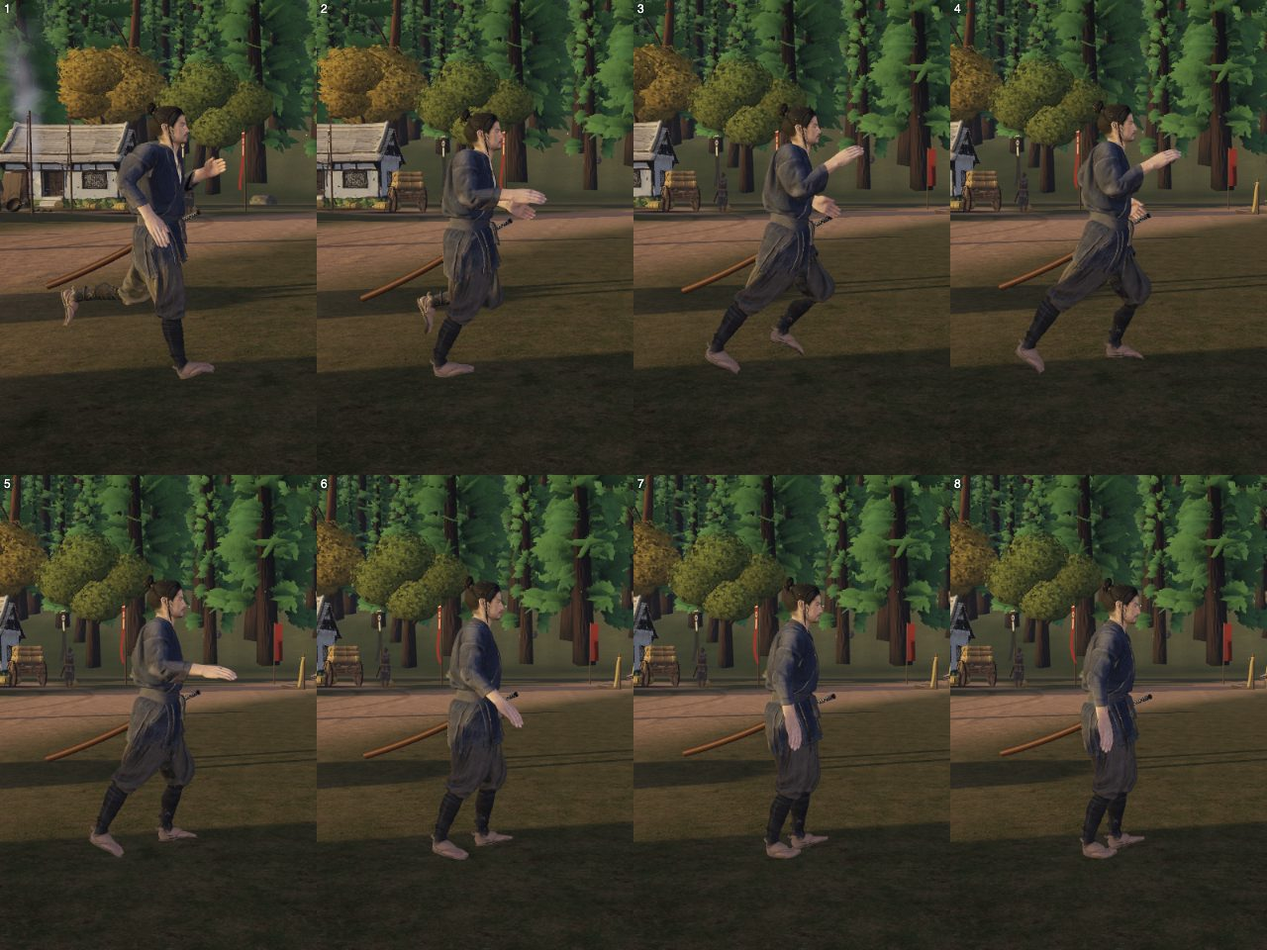
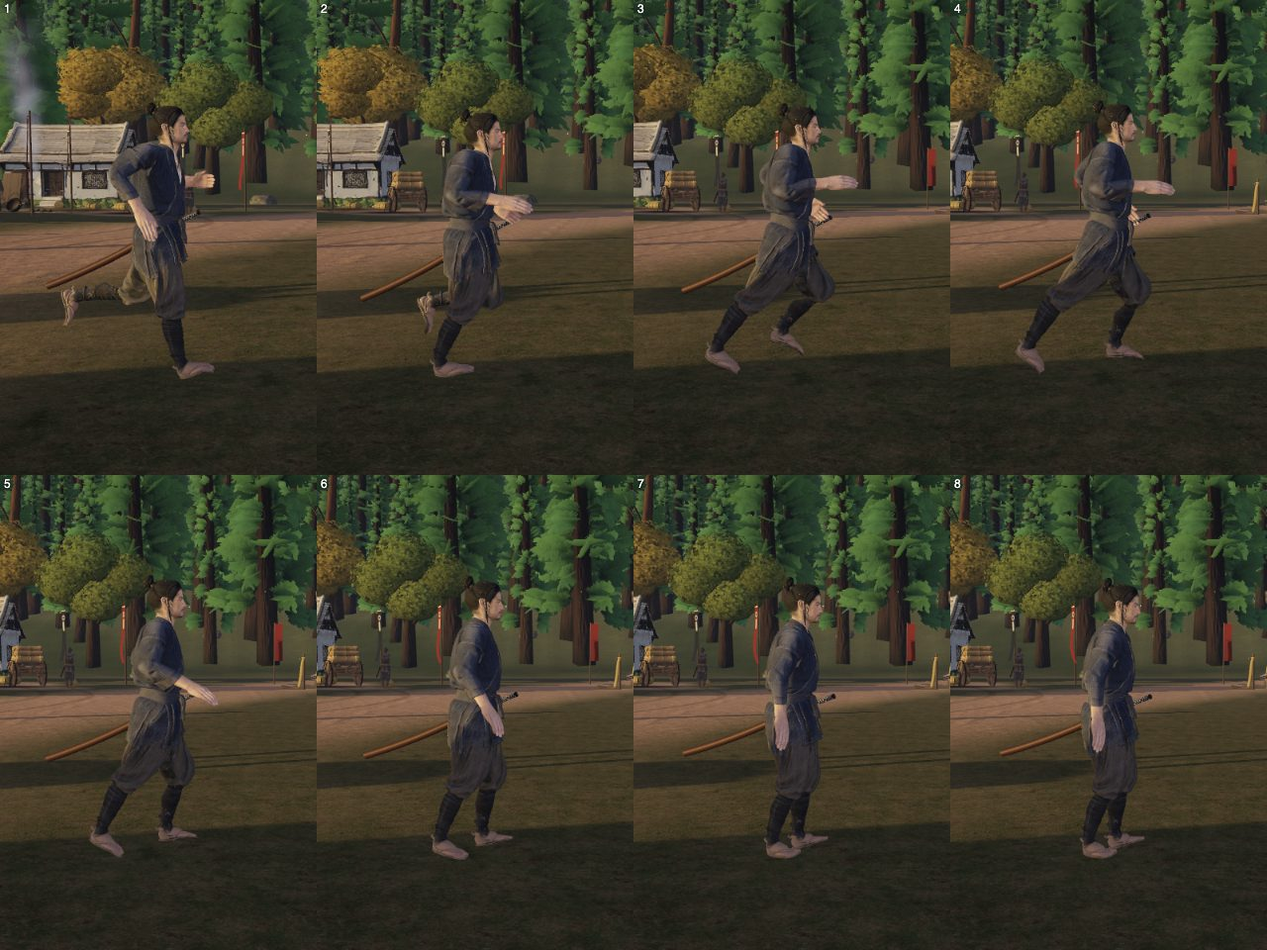
Record the final M3 results: blind-scoring history, corrected arm, new design doc
- design-locomotion-upper.md (new): causes, layer placement, what ships, rejected versions, pitfalls.
  design-locomotion-smooth.md section 13 now points to it (keeps that file at 100 lines).
- reports/polish3/locomotion-smooth/m3.md rewritten with the final numbers: three blind-scoring
  rounds (first arm lost 3-19, second 0-20, final version ties 27 of 27 against M2b), what the
  swing/sync metrics missed, the crouch-entry drift found by comparing raw frames, performance.
- m3 images regenerated from the final default; tasks-locomotion / tasks-polish3 / README updated.

diff --git a/reports/polish3/locomotion-smooth/m3.md b/reports/polish3/locomotion-smooth/m3.md
@@ -1,62 +1,56 @@
-# 走り・歩きの滑らかさ M3：走りの形（腕・体幹・頭・前傾・骨盤の上下）（2026-11-04）
+# 走り・歩きの滑らかさ M3：走りの形（体幹・頭・前傾・曲がり・骨盤の上下・後ろへ引く腕）（2026-11-04）
 
 前＝この枝の `?smooth=arms`（M2b の姿勢。762コマの記録の指紋 69ee9d393ee3399a が M2b の main と一致）。後＝この枝の既定。
-入れたのは、上半身の二次運動の層（`dist/valley/upper-body.js`（式・純粋）・`upper-rig.js`（骨へ当てる））と、物差し `tools/lib/upper-metrics.mjs`。理由と捨てた案は design-locomotion-smooth.md §13。
+入れたのは上半身の二次運動の層（`dist/valley/upper-body.js`（式・純粋）・`upper-rig.js`）と物差し `tools/lib/upper-metrics.mjs`。設計と捨てた案は `design-locomotion-upper.md`。
 
 ## 結論
-- **腕が前に出たまま固まって見える原因は、収録動作の形**だった。走りの動作（CMU_Run）の腕は、反対側の太ももとすでに同期している（相関0.98・位相差0）。ところが上腕は真下より後ろ（平均−25度）でしか振れず、肘を約125度曲げた前腕が胸の前に残る。手の前後の行き来は20〜25cm。ほかの層（腕の力の抜き・刀・握り）は腕を変えていない（最終の姿勢＝mixer の姿勢を確かめた）。手続きの層で直せる範囲で、再収録は要らない。
-- **体幹の硬さは、骨盤が胸と同じ向きに回ること**（相関+0.57。人は逆向き）だった。胸の揺れ自体は脚に合っていた。
-- 層を入れた後、定常の走りで：腕の振り幅45→71度・平均−25→−9度・手の行き来23→31cm、骨盤と胸の相関+0.53→−0.94（逆回転）、頭の左右の揺れ7.6→1.1度・角加速度p99 9707→2532、骨盤の上下8.4→6.0cm、前傾7.1→9.1度。走り出しの前傾の最大8.9→11.9度、曲がりで内側へ0→4度。足の物差し（滑り・窓・地面）は M2b とほぼ同じ（止まりの窓 +0.3cm）。
-- 盲検（腕と体）はまだ。画素の差は「画像」の節。
+- **既定**：体幹の逆回転・頭の安定・前傾・曲がりの傾き・骨盤の上下の縮め・**後ろへ引く側だけ深くした腕**。前へ出る腕は M2b のまま（肘を畳んだ形・手の前への出19cm）。
+- **見た目は旧（M2b）と同等**。盲検（画像だけを見る Opus 採点役3人）で、旧・腕なし・この版の3版が27件すべて同点。悪化はないが、**画像で「良くなった」とも言えない**（8コマ・0.5秒の連続写真では、頭の揺れや体幹の逆回転の差が読めない）。数値の改善は確かに出ている（下の表）。
+- 実装担当の初版（腕を前へも振る）は、振り幅・同期の物差しでは目標を満たしたが、**盲検で旧に負けた**（54件中 新3・旧19）。そのまま出さず、腕を作り直した（下の経過）。
+- 生の記録を main と項目ごとに比べて、**屈み歩きに入る約0.35秒、左腕が最大40度ずれる不具合**を見つけて直した（原因＝手の上限が層の効きに連動しなかった）。回帰に門番を足し、不具合を戻すと失敗することを確かめた。
+- 論理側（位置・向き・歩容・接地・カメラ）は762コマすべて M2b と同じ。戦闘の論理は main と一致（斥候320・侍大将520コマ）。
 
-## 人の走りの目安と、目標の根拠（概数。文献で幅がある値を、目安として丸めて使う。数値やコードは持ち込んでいない）
-- 腕：上腕の前後の振り幅はおよそ60〜90度（速いほど大きい）で、振りの中心は真下よりやや後ろ。肘は約90度に曲げ、前で畳み後ろで少し伸ばす。腕は反対側の脚と同期する。→ 目標：走りで幅60度以上・平均−15〜0度・手の行き来28cm以上・同期の相関0.9以上。
-- 体幹：骨盤と胸は逆向きに回る。→ 骨盤と胸の回りの相関−0.5以下。
-- 頭：視線を保ち、揺れは数度以内。→ 左右4度・上下3.5度以内（収録は7.6・4.6度）。
-- 体の上下：走りでおよそ6〜10cm、速いほど小さめ。収録の腰の上下は8.5cm（本来の速さ3.05m/秒）で、走り5m/秒では歩調1.72倍で回すため、同じ弧が約3倍の重さで跳ぶ（弧の高さは周期の2乗に比例）。→ 走り5〜7cm・通常移動8.5cm以下。
-- 前傾：定速でおよそ5〜15度、加速の始めは大きい。収録は7度。→ 走り8〜13度・走り出しの最大11度以上。
-- 曲がり：体全体は atan(横の加速度/g) だけ内側へ傾くのが釣り合い。台本の旋回は横の加速度が20m/秒²に達する（人には無理な鋭さ）ので、その0.2倍・上限8度を上体で見せる。→ 内側へ2度以上。
+## 盲検採点の経過（腕。new＝M3、old＝M2b。採点役3人×場面。A/B の順は場面ごとにでたらめ）
+| 回 | 比べた版 | 件数 | new が良い | old が良い | 同じ | 総合の差(new−old) |
+|---|---|---:|---:|---:|---:|---:|
+| 1 | 初版（前へも振る）対 M2b・横と追従18場面 | 54 | 3 | 19 | 32 | −0.31 |
+| 2 | 手の上限＋肘を20度伸ばした版 対 M2b・18場面 | 54 | 0 | 20 | 34 | −0.28（横 −0.56） |
+| 3 | 旧・V1（後ろへ引く側だけ）・V3（腕は M2b のまま体幹だけ M3）・横9場面 | 27 | 3版とも27件すべて同点（best＝tie） | | | 0.00 |
+- 1回目：前へ出た手が顔・頭の高さまで上がる／前腕が水平に棒状／曲がりで腕が頭より高く跳ねる、が3人とも繰り返し指摘された。実測も同じ向き（走りで手が首より上に出るコマ7%・前への出 19→26cm）。
+- 2回目：肘を伸ばして手のひらを開いて前へ差し出す形が「棒のよう」。採点役が好んだのは M2b の「肘を畳んで胸の前」で、「後ろへの振りが小さい」とも言った → 3回目は前へ出る腕は触らず、後ろへ引く側だけ増やした。
+- 3回目の「worst」の指摘は旧（M2b）側の1件だけ（頭が後ろへ傾く）。3人とも、旧・V1・V3 に同じ指摘（手のひらを開いて前へ差し出す・止まりが急・歩きが小走り）を付けた。
+- 追従カメラ（プレイヤーが普段見る向き）は人物が小さく、差は読めない（2回目は27件すべて同点）。V1 の採点は差が読める横カメラだけにした。
 
-## 台本1本（`smooth-journey`・`upper-metrics`。前＝`?smooth=arms`）
+## 実装担当の物差しが見逃したこと
+腕の振り幅（45→71度）・反対側の太ももとの同期（相関0.99）・平均（−25→−9度）は、設計した内容そのものを測るので、初版でも目標を満たした（物差しと実装が同じ定義）。見た目の悪さ（手が首の高さまで上がる）は拾えなかった。**手の最高の高さ（首との差）と肩から手の前への出**を物差しに足し（`handPose`・単体試験つき）、回帰の目標を作り直した（手の最高≤首−5cm・前への出≤24cm。M2b は −5.9・19.0、初版は +2.0・26.4）。
 
-| 指標 | 前（M2b） | 後（M3） | 目標 |
+## 台本1本（`smooth-journey`・`upper-metrics`。前＝M2b）
+| 指標 | 前（M2b） | 後 | 目標 |
 |---|---:|---:|---|
-| 走り 腕の振り幅（度）／平均（度） | 45.3／−24.9 | 70.5／−8.6 | 60〜90／−15〜0 |
-| 走り 手の前後の行き来（cm） | 22.9 | 31.1 | 28以上 |
-| 走り 反対側の太ももとの同期（相関・位相差） | 0.98・−0.02周 | 0.99・0周 | 0.9以上 |
+| 走り 腕の振り幅（度）／平均（度） | 45.3／−24.9 | 56.9／−30.3 | 50〜90／−40〜−20 |
+| 走り 手の前後の行き来（cm）／反対側の太ももとの同期 | 22.9／0.98 | 28.8／0.99 | 25〜60／0.9以上 |
+| 走り 手の最高（首との差cm）／前への出（cm） | −5.9／19.0 | −6.7／19.0 | −5以下／22以下 |
 | 走り 骨盤と胸の回りの相関（負＝逆回転）／ねじれの幅（度） | +0.57／17.7 | −0.93／28.6 | −0.5以下 |
-| 走り 頭の左右／上下の揺れ（度）・角加速度p99（度/秒²） | 7.6／4.6・8837 | 1.1／1.8・2539 | 4／3.5以内 |
+| 走り 頭の左右／上下の揺れ（度）・角加速度p99 | 7.6／4.6・8837 | 1.1／1.8・2539 | 4／3.5以内 |
 | 走り 骨盤の上下（cm）／前傾（度） | 8.3／7.2 | 5.9／9.2 | 5〜7／8〜13 |
-| 通常移動 腕の振り幅（度）／骨盤と胸の相関 | 45.4／+0.43 | 62.0／−0.86 | 55以上／−0.5以下 |
+| 通常移動 腕の振り幅（度）／手の最高（cm）／骨盤と胸の相関 | 45.4／−5.9／+0.43 | 53.3／−6.2／−0.86 | 48以上／−5以下／−0.5以下 |
 | 通常移動 頭の左右（度）／骨盤の上下（cm） | 7.6／8.3 | 2.6／7.8 | 4以内／8.5以下 |
-| 走り出しの前傾の最大（度） | 8.9 | 11.9 | 11以上 |
-| 曲がりの内側への傾き（度） | 0.0 | 4.0 | 2以上 |
-| 足の滑り（cm/m）・区間 jog／run／run2 | 1.68・0／0／0 | 1.72・0／0／0 | 1.84・1.30以下 |
-| 窓 歩き出し・反転・旋回／停止（1回目・2回目） | 0・0・0／20.41・18.00 | 0・0・0／20.72・18.22 | 6以内／30以内 |
+| 走り出しの前傾の最大（度）／曲がりの内側への傾き（度） | 8.9／0.0 | 11.9／4.0 | 11以上／2以上 |
+| 屈み歩きの腕（対 `?smooth=arms`）の最大のずれ | — | 0.8度・手0.6cm | 3度・3cm以内 |
+- 同じページの定常の走り3秒（M3）：30・60・144コマ/秒で腕の幅 57.2・56.8・56.5度、骨盤の上下6.0cm・前傾9.1度（どれも同じ）。「動きを減らす」で腕の幅47.5度・ねじれ10.7度（通常の56.8・28.6より小さい）。
+- 二重加算なし：補正を戻した骨と mixer 直後の姿勢の差 2.2e-16。技（左クリック）を出すと、効きは0.13秒で1.00→0.024へ戻る。
 
-物差しは、わざと壊した合成の記録で確かめた（`tests/upper-metrics.test.mjs`）：動かない腕は振り幅0・相関0（M0 の物差しは硬さを0として見逃していた）、同じ側の脚と同期する腕は相関が負、骨盤と胸が一枚の板なら相関+1。
-
-## 同じページの定常の走り3秒（`regress-locomotion-upper`。どの通りも1回空で流してから測る）
-
-| | 腕の幅／平均（度） | 手の行き来（cm） | 同期 | 骨盤と胸の相関／ねじれ（度） | 頭の左右（度）・角加速度p99 | 骨盤の上下（cm） | 前傾（度） |
-|---|---|---:|---:|---|---|---:|---:|
-| M2b（`?smooth=arms`） | 45.3／−25.4 | 22.9 | 0.98 | +0.53／17.7 | 7.6・9707 | 8.4 | 7.1 |
-| M3（60コマ/秒） | 70.6／−9.0 | 31.1 | 0.99 | −0.94／28.6 | 1.1・2532 | 6.0 | 9.1 |
-| M3（30コマ/秒） | 71.1／−9.0 | 31.6 | 0.99 | −0.94／29.0 | 1.3・1563 | 6.0 | 9.1 |
-| M3（144コマ/秒） | 70.1／−8.9 | 30.7 | 0.99 | −0.94／28.5 | 1.0・4907 | 6.0 | 9.1 |
-| M3「動きを減らす」 | 52.9／−19.9 | 23.0 | 0.99 | −0.66／10.7 | 2.5・2566 | 4.8 | 7.8 |
-
-- コマ速度で値は極端に変わらない（腕の幅の差1%以内、骨盤の上下・前傾は同じ）。頭の角加速度は差分の取り方でコマ速度に左右される指標なので、コマ速度どうしは比べない。
-- 二重加算なし：補正を戻した骨と、同じコマの mixer の直後の姿勢の差は 2.2e-16（層を当てたコマの姿勢の変化は 0.024）。技（左クリック）を出すと、効きは0.13秒で1.00→0.024へ戻る。
-
-## 戦闘・切替・性能
-- `regress-attack-timing`：斥候320コマ・侍大将520コマとも main（05ef4eb の写し）と一致（combat.js は変えていない）。
-- 位置の列：`?smooth=arms` の記録の指紋 69ee9d393ee3399a が M2b の main の既定と一致。既定は c2736e4253be465b。
-- 回帰の全本34本合格（`regress-locomotion-upper` を足した）。最後の直し（止まりの腕）の後に、上半身・脚・歩き・抜納刀・握り・突進・軌跡の9本を流し直して合格。
-- 性能（`measure-perf`・main の写しと交互・p95 ms）：移動・標準 main 16.2／15.9／15.9 → M3 16.4／16.0／15.9（中央値15.9→16.0）、戦い・標準 14.7／14.5／14.6 → 14.7／14.7／14.6（14.6→14.7）、移動・軽量 13.8→14.0、戦い・軽量 12.8→12.8。描画呼出（475・441・451・407）と三角形は同じ。この測定は、止まりの腕の直し（毎コマの角の計算が2回増える。新規確保なし）の前の版。毎コマの新規確保は無い（入れ物は作っておき、関数・配列を毎コマ作らない）。
+## 戦闘・切替・性能・回帰
+- `regress-attack-timing`：斥候320・侍大将520コマとも main の写しと一致（`combat.js` は変えていない）。
+- `?smooth=arms` の記録の指紋 69ee9d393ee3399a が M2b の main と一致。敵（兵・侍大将）は構えで左手が武器を握る間は層が自動で切れる（実測：兵は効き≒0、侍大将は走り出しの一瞬だけ0.8まで入り、握りに合わせて1秒以内に消える）ので、主な効き先は主人公と味方。
+- 単体887件・`npm run check`・`npm run smoke` 合格。ブラウザ回帰34本合格（`regress-locomotion-upper` に、屈み歩きの門番を足した）。
+- 性能（`measure-perf`・main と交互に3回・p95 の中央値、ms）：移動・標準 15.8→15.7、戦い・標準 14.5→14.4。描画呼出（475・441）と三角形は同じ。差は測定のぶれの内（初版で測った +0.2ms も同程度）。最終コードで測り直した。
 
 ## 画像（`m3/`・8コマ・幅1280。`m2b-`＝`?smooth=arms`、`m3-`＝既定）
-- `run_steady-side`（4コマごと）：真横の定常の走り。M3 は奥の腕が前へ肘を畳んで振れ、手前の腕が腰まで引かれる。M2b は両手が胸の前に残る。
-- `run_stop-side`（4コマごと）：止まりの腕は M2b に近い（直しの後）。
-- `run_steady-follow8`・`walk_steady-follow8`（8コマごと＝約0.13秒）：後ろからの追従。人物が小さく、腕の差は小さい。腰と胸のねじれ（鞘の向きが変わる）が見える。
-- 画素の差（同じコマどうし・輝度24以上違う画素の割合。1枚の切り抜きは人物より広い）：真横の各場面の最大は 走り出し3.6・定常の走り3.4・走りの止まり3.4・走り→歩き3.4・曲がり2.9・通常移動の定常3.2・歩いて止まる2.7%（M2b と M2a の差は最大2.5%・ほとんど1%以下だった）。後ろからは最大0.4〜1.3%（人物が小さい。曲がりが1.3%で最大）。
+- `run_steady-side`・`run_stop-side`（4コマごと）：真横。M3 は後ろへ引く腕が少し深く、頭が水平に保たれ、上体が少し前へ傾く。差は小さい（画素の差は最大3.7%）。
+- `run_steady-follow8`・`walk_steady-follow8`（8コマごと＝約0.13秒）：後ろからの追従。人物が小さく、腕の差はほぼ読めない。
+
+## 残る課題・本人に遊んで見てほしい点
+- **ロボットのような硬さが取れたか**は、遊んで確かめてほしい（画像では示せなかった）。`?smooth=arms` と見比べられる。
+- 全版に共通して、盲検で繰り返し指摘された点（M3 以前から）：止まるとき走りの姿勢から2〜3コマで直立へ切り替わる／歩き（3.1m/秒）が両足の浮く小走りに見える／前側の手が手のひらを開いたまま胸の前に出る。
+- 後ろへ引く腕の深さ（−62度）が大きすぎないか。止まった直後の息づかい（R36.3）は入れていない。

diff --git a/.kiro/specs/hidden-valley-slice/design-locomotion-upper.md b/.kiro/specs/hidden-valley-slice/design-locomotion-upper.md
@@ -1,0 +1,34 @@
+# 走り・歩きの滑らかさ M3「走りの形」の設計（2026-11-04）
+
+`design-locomotion-smooth.md` §6 の続き。実装 `dist/valley/upper-body.js`（式・純粋）・`upper-rig.js`（骨へ当てる）、物差し `tools/lib/upper-metrics.mjs`。
+結果と数値は `reports/polish3/locomotion-smooth/m3.md`。要件 R36（走りの形）・R38（盲検）・R39。
+
+## 1. 原因（調べて分かったこと）
+- 腕：走り（CMU_Run）の腕は反対側の太ももと既に同期している（相関0.98・位相差0）。それでも上腕は真下より後ろ（−48〜+2度・平均−25度）でしか振れず、肘を深く畳んだ前腕が胸の前に残る（手の前後の行き来20〜25cm）。relaxArms・刀・握りの層は腕を変えていない（最終の姿勢＝mixer の姿勢）。
+- 体幹・頭・腰：骨盤が胸と同じ向きに回る（相関+0.57。人は逆向き）。頭は左右7.6度・上下4.6度揺れる。腰の上下8.3cmは、走り5m/秒で歩調を1.72倍にして回すので、同じ弧が約3倍の重さで跳ぶ（弧の高さは周期の2乗に比例）。
+- どれも手続きの層で直せる範囲なので、再収録はしない。
+
+## 2. 層の置き方
+- 順：mixer → この層 → 脚のIK → 刀 → 握り。骨盤の上下は脚のIKの中で腰だけを動かす（足の目標は動作の足首の高さのまま決めるので、足は浮かない）。
+- 効くのは脚のIKを使う人（主人公と24m以内の近い8人。軽量は主人公だけ）の、移動の動作の間だけ。技・回避・受け・抜納刀・両手持ち・屈み歩きでは効きを0へ戻す（25/秒）。刀・弓を持つ腕は0.35倍。敵は構えで左手が武器を握る間は自動で切れる（実測：兵は効き≒0、侍大将は走り出しの一瞬だけ0.8まで入り1秒以内に消える）ので、主な効き先は主人公と味方。
+- 前のコマの補正は undo で戻してから重ねる（二重加算の禁止。回帰で、戻した骨と mixer 直後の姿勢の差 2e-16）。毎コマの新規確保をしない。ばねは厳密に解くので、30・60・144コマ/秒で同じ曲線。
+- 切替：`?smooth=arms` で M2b。脚のIKの更新の分け方に乗るので `?smooth=ik` でも戻る。「動きを減らす」は振り幅を0.35倍（骨盤の下限は0.8倍）。
+
+## 3. 中身
+- 体幹の逆回転：胸を脚の位相から決めた目標（−0.2×（右の太もも−左）/2 度）へ、骨盤を＋0.18×（右−左）/2 度へ寄せる（揺れの成分だけ）。腰を回すときは太もも・背骨を逆に回し、腰の形だけを動かす。
+- 頭：進む向きから見た頭の向きを、4/秒でならした向きへ0.8寄せる（揺れを打ち消す）。前傾：速さ（3m/秒を超えた分×1.3度）と加速度（10度×tanh(a/10)）をばねで遅らせる。曲がり：atan(横の加速度/g)×0.2（上限8度）を上体だけで見せる。骨盤の上下：弧を clip/ts² へ縮め、下限6cm。
+- 腕（後ろへ引く側だけ）：反対側の太ももが後ろにあるときだけ、gain（0.2→0.3、速さ2→5m/秒）×太ももの角度を、減衰の弱いばね（ζ0.35）で後ろへ足す（`backOnly`）。前へ出る腕と肘は収録のまま。上腕は −48〜+2 → −62〜0度、手の前への出（19cm）と肘の曲がり（77〜125度）は M2b と同じ。
+- 手の安全装置（`handBack`・`UPPER.hand`）：肩から見た手が、首の関節−5cmより高く・前へ27cmより出たら、腕を肩の軸まわりに後ろへ戻す（log-sum-exp でなめらかに）。通常の走り・歩きでは効かず（M2b の最高は首−5.9cm・前へ19cm）、はみ出したときだけ抑える。
+- 止まりの腕：効きを速さ（1.5m/秒で満）と減速（−20m/秒²で0）でも弱め、ばねの減衰を強く（ζ0.9）、上腕の前への傾きを動作の角込みで24度まで。待ちの姿へ混ぜる間に、動作の腕が前へ上がって水平に突き出たため（撮影で確認）。
+
+## 4. 決め方と捨てた案（盲検＝画像だけの Opus 採点役3人、場面ごとの A/B は伏せて入れ替える）
+- 初版（腕を前へも振る：offset 10→17度・gain 0.16→0.30・肘を12度伸ばす）は、振り幅・同期の物差しでは目標を満たした（45→71度・相関0.99）が、盲検で54件中 新3・旧19（総合−0.31点）。前へ出た手が首・顔の高さまで上がる／前腕が立つ／曲がりで腕が頭より高く跳ねる、が3人とも繰り返し指摘された。
+- 手の高さに上限を付けて肘を20度伸ばした修正版は54件中 新0・旧20。手のひらを開いて前へ差し出す形が「棒のよう」で、採点役が好んだのは M2b の「肘を畳んで胸の前」。同時に「後ろへの振りが小さい」とも指摘された。
+- そこで前へ出る腕は M2b のまま、後ろへ引く側だけ増やした（V1）。V1・「腕は M2b のまま体幹だけ M3」（V3）・旧の3版を横カメラ9場面×3人で採点：27件すべて同点（見分けがつかない）。悪化はなく、良くなった証拠は画像では示せない。
+- そのほか捨てた案：胸を「骨盤の回り×−0.45」へ寄せる（動作の骨盤の回りが±4度と小さく偏り、胸がほぼ止まった）。骨盤の上下を層の中で腰を動かして作る（足が一緒に浮いた）。
+
+## 5. 落とし穴
+- **振り幅と同期の物差しは、設計どおりに動いた証拠にしかならない**（物差しと実装が同じ定義）。初版は手が顔の高さまで上がっても目標を満たした。見た目は盲検で決め、手の高さ・前への出の物差し（`handPose`）を足した。
+- 撮影の上書き（腕のパラメーター）を、ページの準備の前に当てると、準備の再読み込みで消えて全版が同じ絵になる（V1・V3・修正版が画素で同一だった）。準備の後に当て、新旧の画素差が0でないことで効きを確かめる。
+- 同じページで台本の直後に測ると、1回目は前の状態を引きずる（頭の揺れが2.6度と1.1度に分かれた）。回帰はどの通りも1回空で流してから測る。mixer.update(0) を当て直して「元の姿勢」を作る比べ方は使えない（移動の切り替えが mixer の後に重みと時刻を替える）。
+- 追従カメラ（プレイヤーが普段見る向き）は人物が小さく、腕の差はほとんど見えない。初版の手の跳ね上がりだけは見えた（27件中、旧が良い6件）が、修正版は27件すべて同点だった。V1 の採点は、差が読める横カメラだけにした。

diff --git a/.kiro/specs/hidden-valley-slice/design-locomotion-smooth.md b/.kiro/specs/hidden-valley-slice/design-locomotion-smooth.md
@@ -96,12 +96,5 @@
 - **盲検・撮影の落とし穴**：撮影は各場面の前に主人公を瞬間移動させ、足がその瞬間の姿のまま留まる。立ち時間が短いと走り出しの1コマ目から足を開いて撮れて、IK の版だけ走り出しが悪く見えた（採点役が読み違えた）。`capture-smooth` の立ち時間を150コマ（`KZ_PRE`）にした。平地の連続写真は M2a と画素でほぼ同じ（差は走り出し真横の2〜3コマ目で最大2.5%・歩いて止まる真横で1%・ほかは0.7%以下）＝効き目は坂・段差と動き出しにある。8コマの写真は足の差を読み違えやすい（採点は±1点ぶれた）ので、数値の物差し・画素の差・写真の3つで示す。
 - 落とし穴：Character を作らずにクラスだけ評価する単体試験がある（tests/valley-step-wiring）。`this.legs` は無いことがある前提で書く。
 
-## 13. M3 で決めたこと（2026-11-04・実装 `dist/valley/upper-body.js`（純粋）・`upper-rig.js`・物差し `tools/lib/upper-metrics.mjs`）
-
-- **原因は収録動作の形**（層ではない）：走り（CMU_Run）の腕は反対側の太ももと既に同期している（相関0.98・位相差0）が、上腕は真下より後ろ（平均−25度）でしか振れず、肘を約125度曲げた前腕が胸の前に残る（手の前後の行き来20〜25cm）。relaxArms・刀・握りの層は腕を変えていない（最終の姿勢＝mixer の姿勢）。体幹の硬さは「骨盤が胸と同じ向きに回る」（相関+0.57）。どれも手続きで直せる範囲なので、再収録はしない。
-- **やり方**：上腕を体の横の軸まわりに前へ（オフセット10→17度＋反対側の太ももの角度×0.16→0.30、速さ2→5m/秒で増やす）を減衰の弱いばね（ζ0.35・歩調の2.2倍の角振動数＝周期の約6%遅れる）で。前腕は一定に伸ばす（12度）＋平均より前へ振れた分の0.45倍だけ畳む（一定に24度伸ばすと、前へ振った腕が棒のように突き出た）。骨盤は脚の位相から＋0.18×（右−左）/2、胸は−0.2×（右−左）/2 へ寄せる（揺れの成分だけ）。頭は進む向きから見た向きを4/秒でならした向きへ0.8寄せる。前傾は速さ（3m/秒を超えた分×1.3度）と加速度（10度×tanh(a/10)）をばねで遅らせる。曲がりは atan(横の加速度/g)×0.2（上限8度）を上体だけ。骨盤の上下は clip/ts² へ縮め（歩調 ts 倍で回すと同じ弧は ts² 倍の重さで跳ぶ）、下限6cm。
-- **止まりの腕**（撮影で直した）：真横の走りの止まりで、待ちの姿へ混ぜる間に奥の腕が前へ水平に伸びた（動作の腕が前へ45度ほど上がる所に補正が乗った）。腕の効きを速さ（1.5m/秒で満）と減速（−20m/秒²で0）でも弱め、目標が0へ向かう間は減衰を強く（ζ0.9）、上腕の前への傾きを動作の角込みで35度まで、腕が前にある間は肘の曲がりを70度以上に保つ。
-- **順と範囲**：mixer → この層 → 脚のIK → 刀 → 握り。骨盤の上下は脚のIKの中で腰だけを動かす（足の目標は動作の足首の高さのまま決めるので浮かない）。腰を回すときは太もも・背骨を逆に回し、腰の形だけを回す。効くのは脚のIKを使う人（主人公＋近くの8人）の移動の動作の間だけ。技・回避・受け・抜納刀・両手持ち・屈み歩きでは効きを0へ（25/秒）。刀・弓を持つ腕は0.35倍。前のコマの補正は undo で戻す（回帰で、戻した骨と mixer の直後の姿勢の差 2e-16）。
-- **切替**：`?smooth=arms` で M2b（記録の指紋 69ee9d393ee3399a が main と一致）。脚のIKの更新の分け方に乗るので、`?smooth=ik` でも戻る。「動きを減らす」は振り幅を0.35倍（骨盤の下限は0.8倍）。
-- 捨てた案：胸を「骨盤の回り×−0.45」へ寄せる（動作の骨盤の回りが±4度と小さく偏り、胸がほぼ止まった）。前腕を一定に24度伸ばす（上）。骨盤の上下を層の中で腰を動かして作る（脚のIKが動作の足首の高さを目標にするので、足が一緒に浮いた）。
-- 落とし穴：同じページで台本の直後に測ると、1回目は前の状態を引きずる（屈みの姿勢が残る・頭の揺れが2.6度と1.1度に分かれた）。回帰ではどの通りも1回空で流してから測る。mixer.update(0) を当て直して「元の姿勢」を作る比べ方は使えない（移動の切り替えが mixer の後に重みと時刻を替え、層が無くても0.8度ずれる）。mixer の混ぜた四元数は長さが1から3e-5ずれるので、向きの差は正規化した内積で比べる。
+## 13. M3（走りの形）は `design-locomotion-upper.md` に分けた
+体幹の逆回転・頭の安定・前傾・曲がりの傾き・骨盤の上下の縮め・後ろへ引く腕（前へ出る腕は M2b のまま。腕を前へも振る初版は盲検で負けた）。原因・層の置き方・捨てた案・盲検の経過はそちら、結果は `reports/polish3/locomotion-smooth/m3.md`。

diff --git a/tools/README-valley-qa.md b/tools/README-valley-qa.md
@@ -63,7 +63,7 @@ b0 庭へ降りる（`temple_yard` に入る）→ b1 穂太の話 → b2 林道
 - `tools/scenarios/regress-locomotion-speed.mjs`：速さの表と時間で決める加減速（M1・`dist/valley/loco.js`）。止まる距離と時間が30・60・144Hzで一致・旧い経路は1コマで止まる・走り出し／止まり／反転で速さが1コマ1m/秒を超えて跳ばない・候補の表（old・a・b・c・個別の walk/sprint・`?smooth=speed|off`）の定速と仲間・敵の値。止まりの位相を12通りずらした接地のずれも記録する（合否なし）。URL の切替は `valley-play.mjs --query "loco=old&smooth=off"` で渡せる。smooth-journey の接地は M1 から gait-table v2 の「足裏が平ら」の区間（旧い物差しは `slipLegacy`）。
 - `tools/scenarios/regress-locomotion-phase.mjs`：足の位相と歩調（M2a・`dist/valley/gait-phase.js`）。歩容の切り替え（小走り2.0・2.5で Shift）・歩き出し・止まり（走り・通常移動）の窓0.5秒の接地のずれを、位相をずらした掃引で、既定と `?smooth=phase`（M1 の経路）を同じページで比べる。通りごとに動作の時計 `mixer.time` を0へ戻す（戻さないと同じ通りが15cmと30cmに分かれた）。
 - `tools/scenarios/regress-locomotion-ik.mjs`：脚のIKと接地（M2b・`dist/valley/leg-ik.js`・`leg-plant.js`）。台本1本の定速の滑り（小走り1.84・走り1.30cm/m以下）と窓（歩き出し・反転・旋回）の接地のずれ6cm以内、掃引（歩き出し・切り替え・反転は6cm以内。止まりの既定は M2a より悪くならない。`?stop=hold` の止まりは6cm以内で、30・60・144Hz）、坂・段差（石段の下の林道・土手・川岸・棚田の段）で着いた足の浮き・沈み3cm以内と、歩いて止まった後の足首の高さ。`?smooth=ik`（M2a）と同じページで比べる。既定では、歩幅の伸縮（`?stride=on`）と、止まった後に足を留める版（`?stop=hold`）は入らない。
-- `tools/scenarios/regress-locomotion-upper.mjs`：走りの形（M3・`dist/valley/upper-body.js`・`upper-rig.js`、物差し `tools/lib/upper-metrics.mjs`）。台本1本の腕振りの幅・平均・手の行き来・反対側の太ももとの同期、骨盤と胸の逆回転、頭の揺れ、骨盤の上下、前傾、曲がりの傾きの目標と、足の物差し（regress-locomotion-ik と同じ）。同じページで `?smooth=arms`（M2b）と定速の走り3秒を比べ、30・60・144Hz、「動きを減らす」、補正を戻した骨＝mixer の直後の姿勢（差1e-9以下）、技で効きが戻ることを確かめる。どの通りも1回空で流してから測る（台本の直後の1回目は前の状態を引きずった）。
+- `tools/scenarios/regress-locomotion-upper.mjs`：走りの形（M3・`dist/valley/upper-body.js`・`upper-rig.js`、物差し `tools/lib/upper-metrics.mjs`）。台本1本の腕振りの幅・平均・手の行き来・反対側の太ももとの同期、骨盤と胸の逆回転、頭の揺れ、骨盤の上下、前傾、曲がりの傾きの目標と、足の物差し（regress-locomotion-ik と同じ）。同じページで `?smooth=arms`（M2b）と定速の走り3秒を比べ、30・60・144Hz、「動きを減らす」、補正を戻した骨＝mixer の直後の姿勢（差1e-9以下）、技で効きが戻ることを確かめる。どの通りも1回空で流してから測る（台本の直後の1回目は前の状態を引きずった）。手の最高の高さ（首との差）・前への出の安全装置を台本の全区間で確かめ、同じ台本を `?smooth=arms` でも流して屈み歩きの腕が層あり・なしで同じことを確かめる（手の上限が層の効きに連動しないと、屈み歩きに入る間に左腕が40度ずれる）。
 - `tools/scenarios/capture-ledge.mjs`：棚田の段（0.55m）を下る・登る場面を、段差を越える瞬間を中心に8コマのコマ割りにする（`--tag`・`--query`・`KZ_ONLY`）。平地は IK の有無で画素がほぼ変わらず、効き目は坂と段差に出る。
 - `tools/scenarios/capture-smooth.mjs`：同じ台本の走り出し・定速・停止・旋回を、固定の横カメラと追従カメラで8コマのコマ割り（幅1280のJPG）にする（`--tag` で出力名を替え、新旧を同じ条件で撮る。盲検採点用）。場面の前に主人公を瞬間移動させるので、`KZ_PRE`（既定150コマ）だけ立って足を待ちの姿へ戻してから撮る（短いと、脚のIKの足が前の姿のまま写る）。`KZ_EVERY`（コマの間隔・既定4）・`KZ_ONLY`（場面をカンマ区切りで絞る）。
 - `node tools/gait-sample.mjs`：周期の移動動作を7体ぶん Node だけで標本化し、`dist/valley/gait-table.js`（生成物）を作り直す（`--check` で一致の確認、`--print` で STANCE_SPEED との照合）。

diff --git a/.kiro/specs/hidden-valley-slice/tasks-locomotion.md b/.kiro/specs/hidden-valley-slice/tasks-locomotion.md
@@ -49,7 +49,7 @@
 - 範囲：設計6。**最初に物差しを足す**（腕振りと太ももの角度の相関、骨盤・体幹・頭の安定、骨盤の上下の振幅。M0の指標では捉えられない）。腕振りのばね、体幹の逆回転、頭の安定、前傾と骨盤の上下、慣性と息づかい。主な要件：R36。
 - 依存：M2b。完了の条件（証拠）：腕振りが太ももの角度に同期した相関、頭の揺れの減少、二重加算なし。抜納刀・握り・戦闘の構えが壊れない回帰。「動きを減らす」で振り幅が下がる。盲検（腕と体）。
 - 本人の確認の関門：ロボットのような硬さが取れたかを確認する。
-- 🟡 2026-11-04（枝 `feat/smooth-m3-upper`）：物差し `tools/lib/upper-metrics.mjs`（純粋・合成の記録で硬い腕＝0を確かめる単体試験）を先に足し、M2b で基準を測った。原因は収録動作の形（腕は太ももと同期しているが、上腕が真下より後ろ（平均−25度）でしか振れず、前腕が胸の前に残る）と、骨盤が胸と同じ向きに回ること（相関+0.57）。層 `dist/valley/upper-body.js`（純粋）・`upper-rig.js` を mixer の後・脚のIKの前に入れた（骨盤の上下は脚のIKの中で腰だけ）。`?smooth=arms` で M2b（指紋 69ee9d393ee3399a が main と一致）。台本の走り：腕の振り幅45→71度・平均−25→−9度・手の行き来23→31cm、骨盤と胸の相関+0.57→−0.93、頭の左右の揺れ7.6→1.1度、骨盤の上下8.3→5.9cm、前傾7.2→9.2度、走り出しの前傾の最大8.9→11.9度、曲がりで内側へ0→4度。足の物差しは M2b とほぼ同じ（止まりの窓+0.3cm）。回帰 `regress-locomotion-upper` を足して34本合格、戦闘の論理一致（斥候320・侍大将520）、性能の中央値 移動・標準15.9→16.0ms・戦い・標準14.6→14.7ms、描画呼出・三角形は同じ（`reports/polish3/locomotion-smooth/m3.md`）。残：盲検採点（腕と体）、本人の試遊、止まった直後の息づかい（R36.3）は入れていない。
+- ✅ 2026-11-04（枝 `feat/smooth-m3-upper`）：物差し `tools/lib/upper-metrics.mjs`（硬い腕＝0を拾う単体試験つき）を先に足し、層 `upper-body.js`・`upper-rig.js` を mixer の後・脚のIKの前に入れた（設計 `design-locomotion-upper.md`）。既定＝体幹の逆回転・頭の安定・前傾・曲がりの傾き・骨盤の上下の縮め・後ろへ引く腕（前へ出る腕は M2b のまま）。🔴実装担当の初版（腕を前へも振る）は、振り幅・同期の物差しでは目標を満たしたが、盲検（画像だけの採点役3人×18場面）で旧（M2b）に54件中 新3・旧19で負けた（前へ出た手が顔の高さまで上がる）。手の上限と肘を伸ばした版も0対20。前へ出る腕は M2b のまま後ろへ引く側だけ増やした版で、旧・腕なし・この版の3版が27件すべて同点（悪化なし。画像では良くなった証拠は示せない）。台本の走り：頭の左右の揺れ7.6→1.1度・骨盤と胸の相関+0.57→−0.93・骨盤の上下8.3→5.9cm・前傾7.2→9.2度・腕の振り幅45→57度・手の最高と前への出は M2b と同程度。論理側（位置・向き・歩容・接地・カメラ）は762コマすべて M2b と同じ。`?smooth=arms` で M2b（指紋一致）。生の記録の比較で、手の上限が効きに連動せず屈み歩きに入る約0.35秒、左腕が最大40度ずれる不具合を見つけて直し、回帰に門番を足した（戻すと失敗する）。戦闘の論理一致（斥候320・侍大将520）、ブラウザ回帰34本合格、性能は差なし（p95 移動15.8→15.7ms・戦い14.5→14.4ms）（`reports/polish3/locomotion-smooth/m3.md`）。残：本人の試遊（ロボットのような硬さが取れたか）、止まった直後の息づかい（R36.3）は入れていない。
 
 ## M4 カメラ
 

diff --git a/.kiro/specs/hidden-valley-slice/tasks-polish3.md b/.kiro/specs/hidden-valley-slice/tasks-polish3.md
@@ -17,7 +17,7 @@
   - 2026-11-04（滑らかさ M1・枝 `feat/smooth-m1-speed`）：速さの表（既定 通常3.0・走り5.0m/秒、`?loco=old|a|b|c`）と時間で決める加減速・旋回（`loco.js`）。キーを離しても走り37.9cm・通常22.7cm進んで止まり、30・60・144Hzで一致。旧い経路（`?loco=old`・`?smooth=off`）は main と記録の指紋が一致。窓の接地のずれ 歩き出し30→15cm・反転52→44cm、停止は変わらず（掃引の平均24→22cm）。詳細は tasks-locomotion.md の M1。
   - 2026-11-04（滑らかさ M2a・枝 `feat/smooth-m2a-phase`）：足の位相と歩調（`gait-phase.js`）。歩き出しはすれ違いの位相から、歩容を替える混ぜ・止まりの混ぜの間も出ていく動作を実際の速さで回す。掃引の窓の接地のずれ 歩き出し15→6cm・止まり（走り）22→18cm（最大31→22cm）。`?smooth=phase` で M1 と記録の指紋が一致。詳細は tasks-locomotion.md の M2a。
   - 2026-11-04（滑らかさ M2b・枝 `feat/smooth-m2b-ik`）：脚のIKと接地（`leg-plant.js`・`leg-ik.js`）。着いた足を世界へ留め、骨盤を下げて低い足に届かせ、坂・段で足を地面へ合わせる。台本の窓（歩き出し・反転・旋回）0cm・定速の滑り0・坂と段の浮き沈み3cm以内。止まりは M2a と同じ見た目（盲検で、足を留める版は負けた）。歩幅の伸縮は既定オフ。平地の見た目は M2a とほぼ同じ。詳細は tasks-locomotion.md の M2b。
-  - 2026-11-04（滑らかさ M3・枝 `feat/smooth-m3-upper`）：走りの形（`upper-body.js`・`upper-rig.js`）。腕を反対側の太ももの角度から減衰の弱いばねで前へ振り、骨盤と胸を逆に回し、頭の揺れを打ち消し、前傾・曲がりの傾き・骨盤の上下（歩調に合わせて縮める）を入れた。台本の走りで腕の振り幅45→71度・骨盤と胸の相関+0.57→−0.93・頭の左右の揺れ7.6→1.1度・骨盤の上下8.3→5.9cm。`?smooth=arms` で M2b。詳細は tasks-locomotion.md の M3。
+  - 2026-11-04（滑らかさ M3・枝 `feat/smooth-m3-upper`）：走りの形（`upper-body.js`・`upper-rig.js`）。体幹の逆回転・頭の安定・前傾・曲がりの傾き・骨盤の上下の縮め・後ろへ引く腕（前へ出る腕は M2b のまま）。盲検で、腕を前へも振る初版は旧に負け（54件中 新3・旧19）、作り直した版は旧と同等（3版27件すべて同点）。台本の走りで頭の左右の揺れ7.6→1.1度・骨盤と胸の相関+0.57→−0.93・骨盤の上下8.3→5.9cm。`?smooth=arms` で M2b。詳細は tasks-locomotion.md の M3。
 - [ ] 8.1 画づくりの垂直スライス：見晴らし岩と里の入口を例に、色・形・光・絵肌・人物を一場面で比較し、全体へ広げる方向を設計する。 _(R17.1〜17.9)_
   - 担当：設計・実装・評価。依存：8.0。本人の確認の関門：方向と後処理の意図を画面で確認する。確認前の全体展開は保留する。
   - 2026-10-30：方向は本人が選んだ＝商業大作寄り（R17.11）。絵本寄りとの比較版は作らない。垂直スライスは、見晴らし岩と里の入口を、この方向で作り込む。最初の対象は木（8.1a。杉の段・葉カード・樹皮・近景の枝。research-polish3-audit-1030.md）。出来上がりは、本人が画面で確認する。
